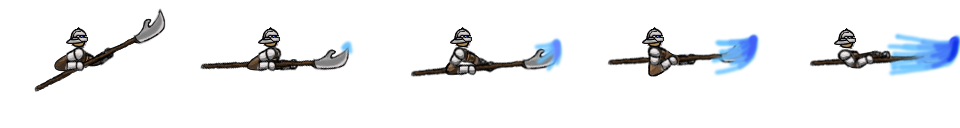
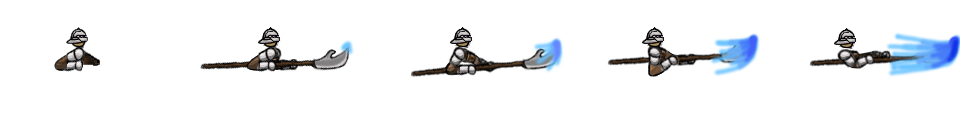
Isolated spear sprite and made it rotate to face the mouse

Changed region(s): [[0.0312, 0.0938, 0.1875, 0.7188], [0.25, 0.5312, 0.2812, 0.5625], [0.0625, 0.2188, 0.0938, 0.25]]

diff --git a/src/prefab/Knight.js b/src/prefab/Knight.js
@@ -5,9 +5,35 @@ class Knight extends Phaser.GameObjects.Container {
         this.Lives = 3;               //set lives to 3
         this.legs = scene.add.sprite(-40, -100, 'Legs').setOrigin(0, 0);
         this.torso = scene.add.sprite(-55, -110, 'Arms').setOrigin(0, 0);
+        this.spear = scene.add.sprite(-70+96, -110+64, 'Spear').setOrigin(.5, .5);
         //console.log(this.legs.anims);
         this.add(this.legs);
         this.add(this.torso);
+        this.add(this.spear);
+
+        
+        // Spears used to debug the mouse pointer code
+
+        // this.testX = 500;  //-160 to put spear point at pivot point
+        // this.testY = -500;  //-100 to put spear point at pivot point
+        // this.spear2 = scene.add.sprite(this.testX+96, this.testY+64, 'Spear').setOrigin(.5, .5);
+        // this.add(this.spear2);
+
+        // this.testXX = 425;
+        // this.testYY = -425;
+        // this.spear3 = scene.add.sprite(this.testXX+96, this.testYY+64, 'Spear').setOrigin(.5, .5);
+        // this.add(this.spear3);
+
+        // this.testOriginX = 475;
+        // this.testOriginY = -475;
+        // this.spear4 = scene.add.sprite(this.testOriginX+96, this.testOriginY+64, 'Spear').setOrigin(.5, .5);
+        // this.add(this.spear4);
+
+        //from https://phaser.discourse.group/t/how-to-move-sprite-and-his-body/6055
+        scene.input.on('pointermove', function (pointer) {
+            this.aimX = pointer.x-this.x;
+            this.aimY = pointer.y-this.y;
+        }, this);
     }
     
     update() {
@@ -18,6 +44,14 @@ class Knight extends Phaser.GameObjects.Container {
             this.y += 123;
             console.log(this.y)
         }
+
+
+        //Spear turning (math from http://phaser.io/examples/v3/view/actions/rotate-container-facing-point)
+
+        this.angleDeg = Math.atan2(-110-100-475+663 - this.aimY, -70+400+475-793 - this.aimX) * 180 / Math.PI -175;
+        //the weird numbers are to make it easier to debug. Do not consolidate them!
+
+        this.spear.setAngle(this.angleDeg);
     }
 
     reset() {

diff --git a/src/scenes/Play1.js b/src/scenes/Play1.js
@@ -16,6 +16,8 @@ class Play extends Phaser.Scene {
         frameHieght: 128, startFrame: 0, endFrame: 4});
         this.load.spritesheet('Legs', './asset/PlayerAssets/PlayerTorsoSheet.png', {frameWidth: 128,
         frameHieght: 128, startFrame: 0, endFrame: 4});
+        this.load.spritesheet('Spear', './asset/PlayerAssets/PlayerSpear.png', {frameWidth: 192,
+        frameHieght: 128, startFrame: 0, endFrame: 4});
         
         //ground enemy
         this.load.spritesheet('monster', './asset/EnemyAssets/EnemySheet.png', {frameWidth: 128,
